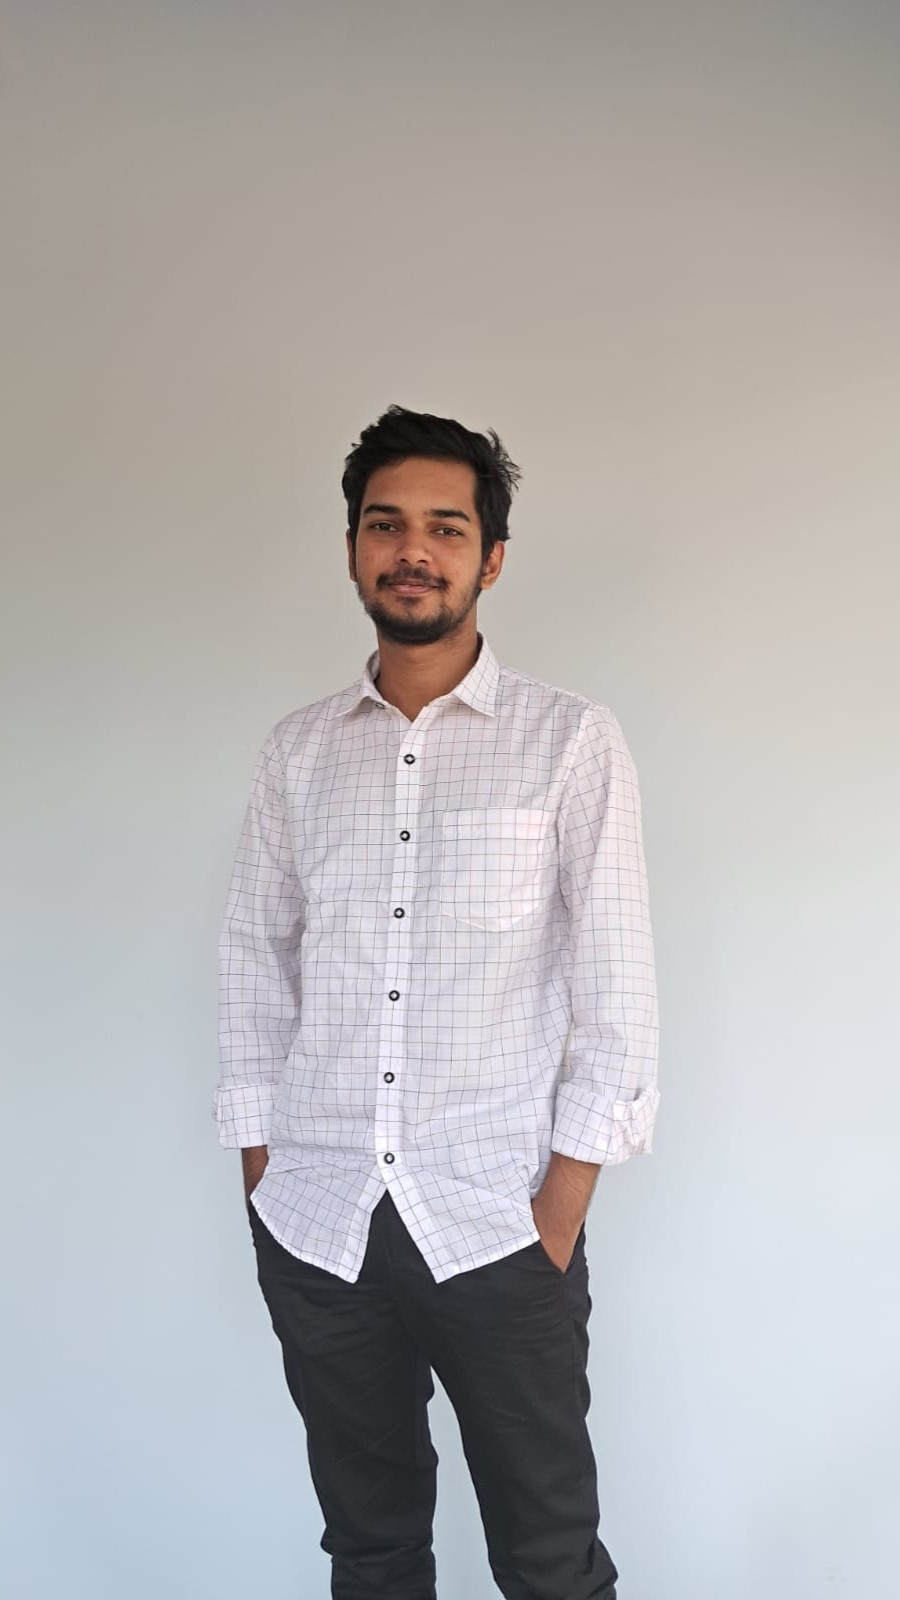
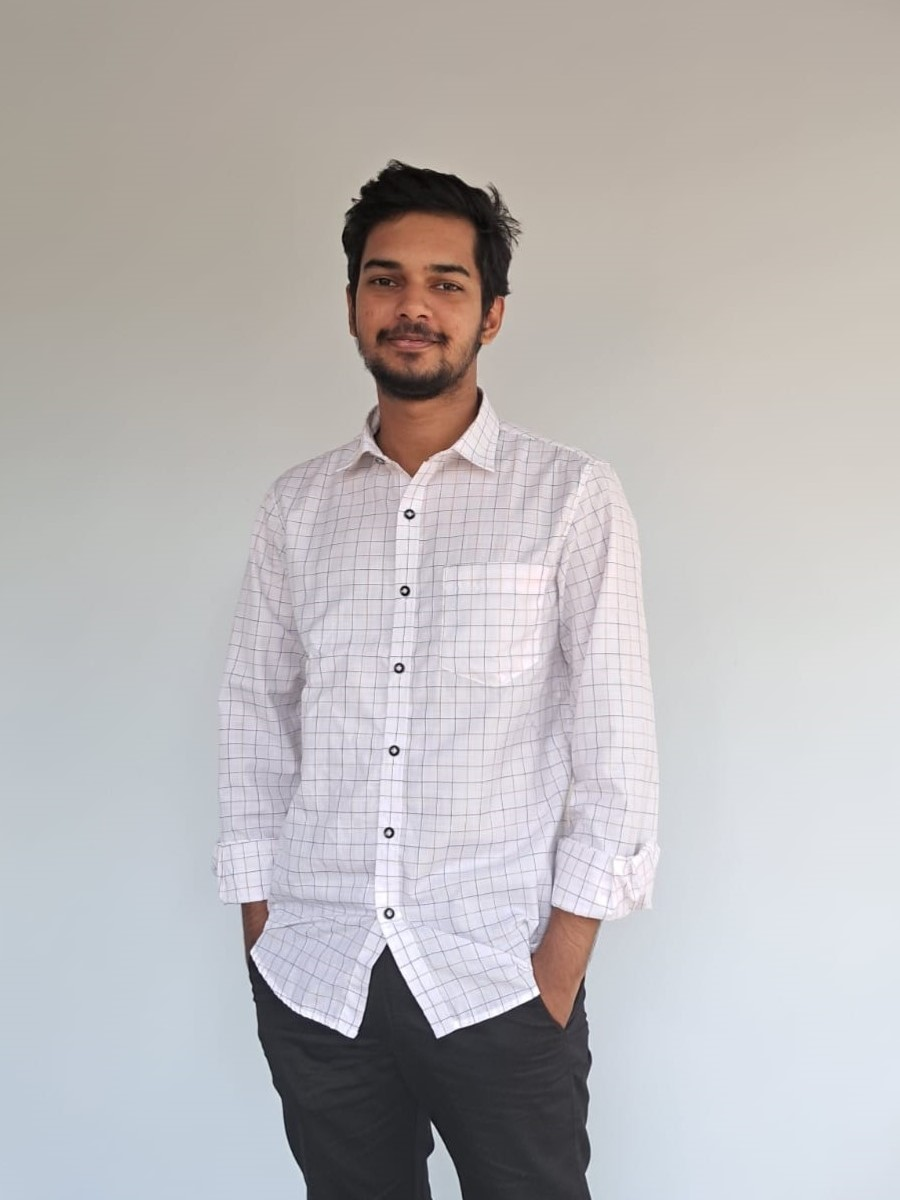
4th commit

diff --git a/src/pages/Contact/Contact.jsx b/src/pages/Contact/Contact.jsx
@@ -18,7 +18,7 @@ function Contact() {
         {/* Text Content */}
               <div className=" py-6 lg:p-6 flex flex-col ">
                          {/* Contact Heading */}
-        <h2 className="relative text-5xl leading-none lg:text-7xl font-bold text-gray-300 mb-10">Let's <br /><span className='text-indigo-500'>Collaborate!</span></h2>
+        <h2 className="relative text-4xl leading-none lg:text-7xl font-bold text-gray-300 mb-10">Let's <br /><span className='text-indigo-500'>Collaborate!</span></h2>
           <h2 className="text-2xl font-semibold mb-4 text-gray-400">I'd Love to Hear From You!</h2>
           <p className=" mb-6 text-gray-200">
             Whether you want to work with me or have a question about a project you are working on or just want to say hi, feel free to send me a message through the form below and I will get to you ASAP.

diff --git a/src/pages/About/About.jsx b/src/pages/About/About.jsx
@@ -1,6 +1,9 @@
 import React from 'react';
 import Bgimg from "../../assets/bgimg.jpg";
-import Me from "../../assets/me.jpg";
+import Me from "../../assets/me2.jpg";
+import Me2 from "../../assets/me2.jpg";
+import Me3 from "../../assets/me3.jpg";
+import Me4 from "../../assets/me4.jpg";
 
 function About() {
   return (
